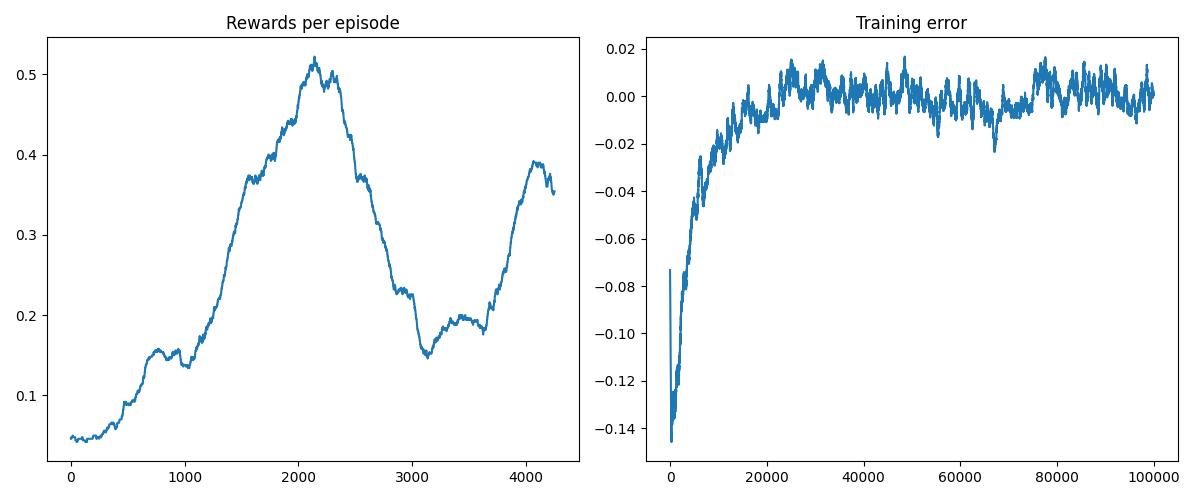
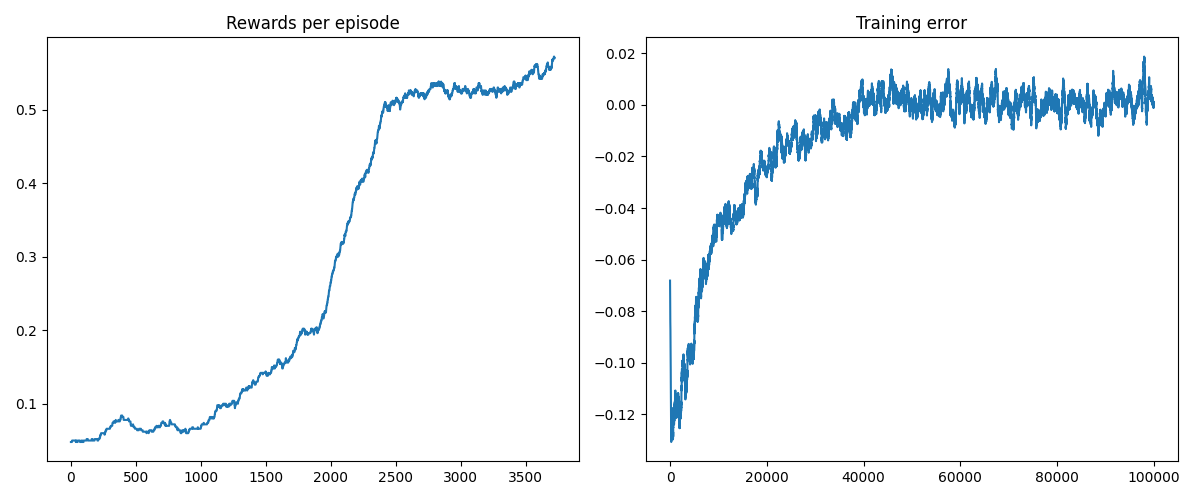
update dq

diff --git a/run_swim_experiment.py b/run_swim_experiment.py
@@ -4,15 +4,13 @@ import importlib.util
 import matplotlib.pyplot as plt
 
 parser = argparse.ArgumentParser()
-parser.add_argument("--agentfile", type=str, help="file with Agent object", default="agent_dq.py")
+parser.add_argument("--agentfile", type=str, help="file with Agent object", default="agent_q.py")
 parser.add_argument("--env", type=str, help="Environment", default="FrozenLake-v1")
 args = parser.parse_args()
 
 spec = importlib.util.spec_from_file_location('Agent', args.agentfile)
 agentfile = importlib.util.module_from_spec(spec)
 spec.loader.exec_module(agentfile)
-
-
 
 
 try:
@@ -40,8 +38,8 @@ for _ in range(100000):
     action = agent.act(observation) 
     observation, reward, done, truncated, info = env.step(action)
     total_rewards_in_episode += reward
+    rewards_per_episode.append(total_rewards_in_episode)
     agent.observe(observation, reward, done)
-    
     if done:
         rewards_per_episode.append(total_rewards_in_episode)
         total_rewards_in_episode = 0
@@ -59,7 +57,7 @@ rewards_moving_avg = (
     np.convolve(np.array(rewards_per_episode), np.ones(r_length), mode = 'valid')
     / r_length
 )
-axs[0].set_title("Rewards per episode")
+axs[0].set_title("Rewards per step")
 axs[0].plot(range(len(rewards_moving_avg)), rewards_moving_avg)
 training_error_moving_avg = (
     np.convolve(np.array(agent.training_error), np.ones(r_length), mode = 'same')

diff --git a/agent_dq.py b/agent_dq.py
@@ -2,7 +2,7 @@ import numpy as np
 
 class Agent(object):
     """The world's simplest agent!"""
-    def __init__(self, state_space, action_space, alpha=0.1, epsilon=0.05, gamma=0.95):
+    def __init__(self, state_space, action_space, alpha=0.05, epsilon=0.05, gamma=0.95):
         self.action_space = action_space
         self.state_space = state_space
         self.alpha = alpha
@@ -39,7 +39,7 @@ class Agent(object):
             observation = observation[0]
             self.stupid_flag = True
 
-        combined_q_value = (self.q1_values[observation] + self.q2_values[observation]) / 2
+        combined_q_value = (self.q1_values[observation] + self.q2_values[observation])
 
         if np.random.random() < self.epsilon:
             self.prev_action = np.random.choice(self.action_space)

diff --git a/agent_q.py b/agent_q.py
@@ -2,13 +2,13 @@ import numpy as np
 
 class Agent(object):
     """The world's simplest agent!"""
-    def __init__(self, state_space, action_space, alpha=0.1, epsilon=0.05, gamma=0.95):
+    def __init__(self, state_space, action_space, alpha=0.05, epsilon=0.05, gamma=0.95):
         self.action_space = action_space
         self.state_space = state_space
         self.alpha = alpha
         self.epsilon = epsilon
         self.gamma = gamma
-        self.q_values = np.full((state_space, action_space), 0.5) # TODO: test different initialisation values
+        self.q_values = np.full((state_space, action_space), 1.0) # TODO: test different initialisation values
         self.prev_observation = None
         self.prev_action = None
 
